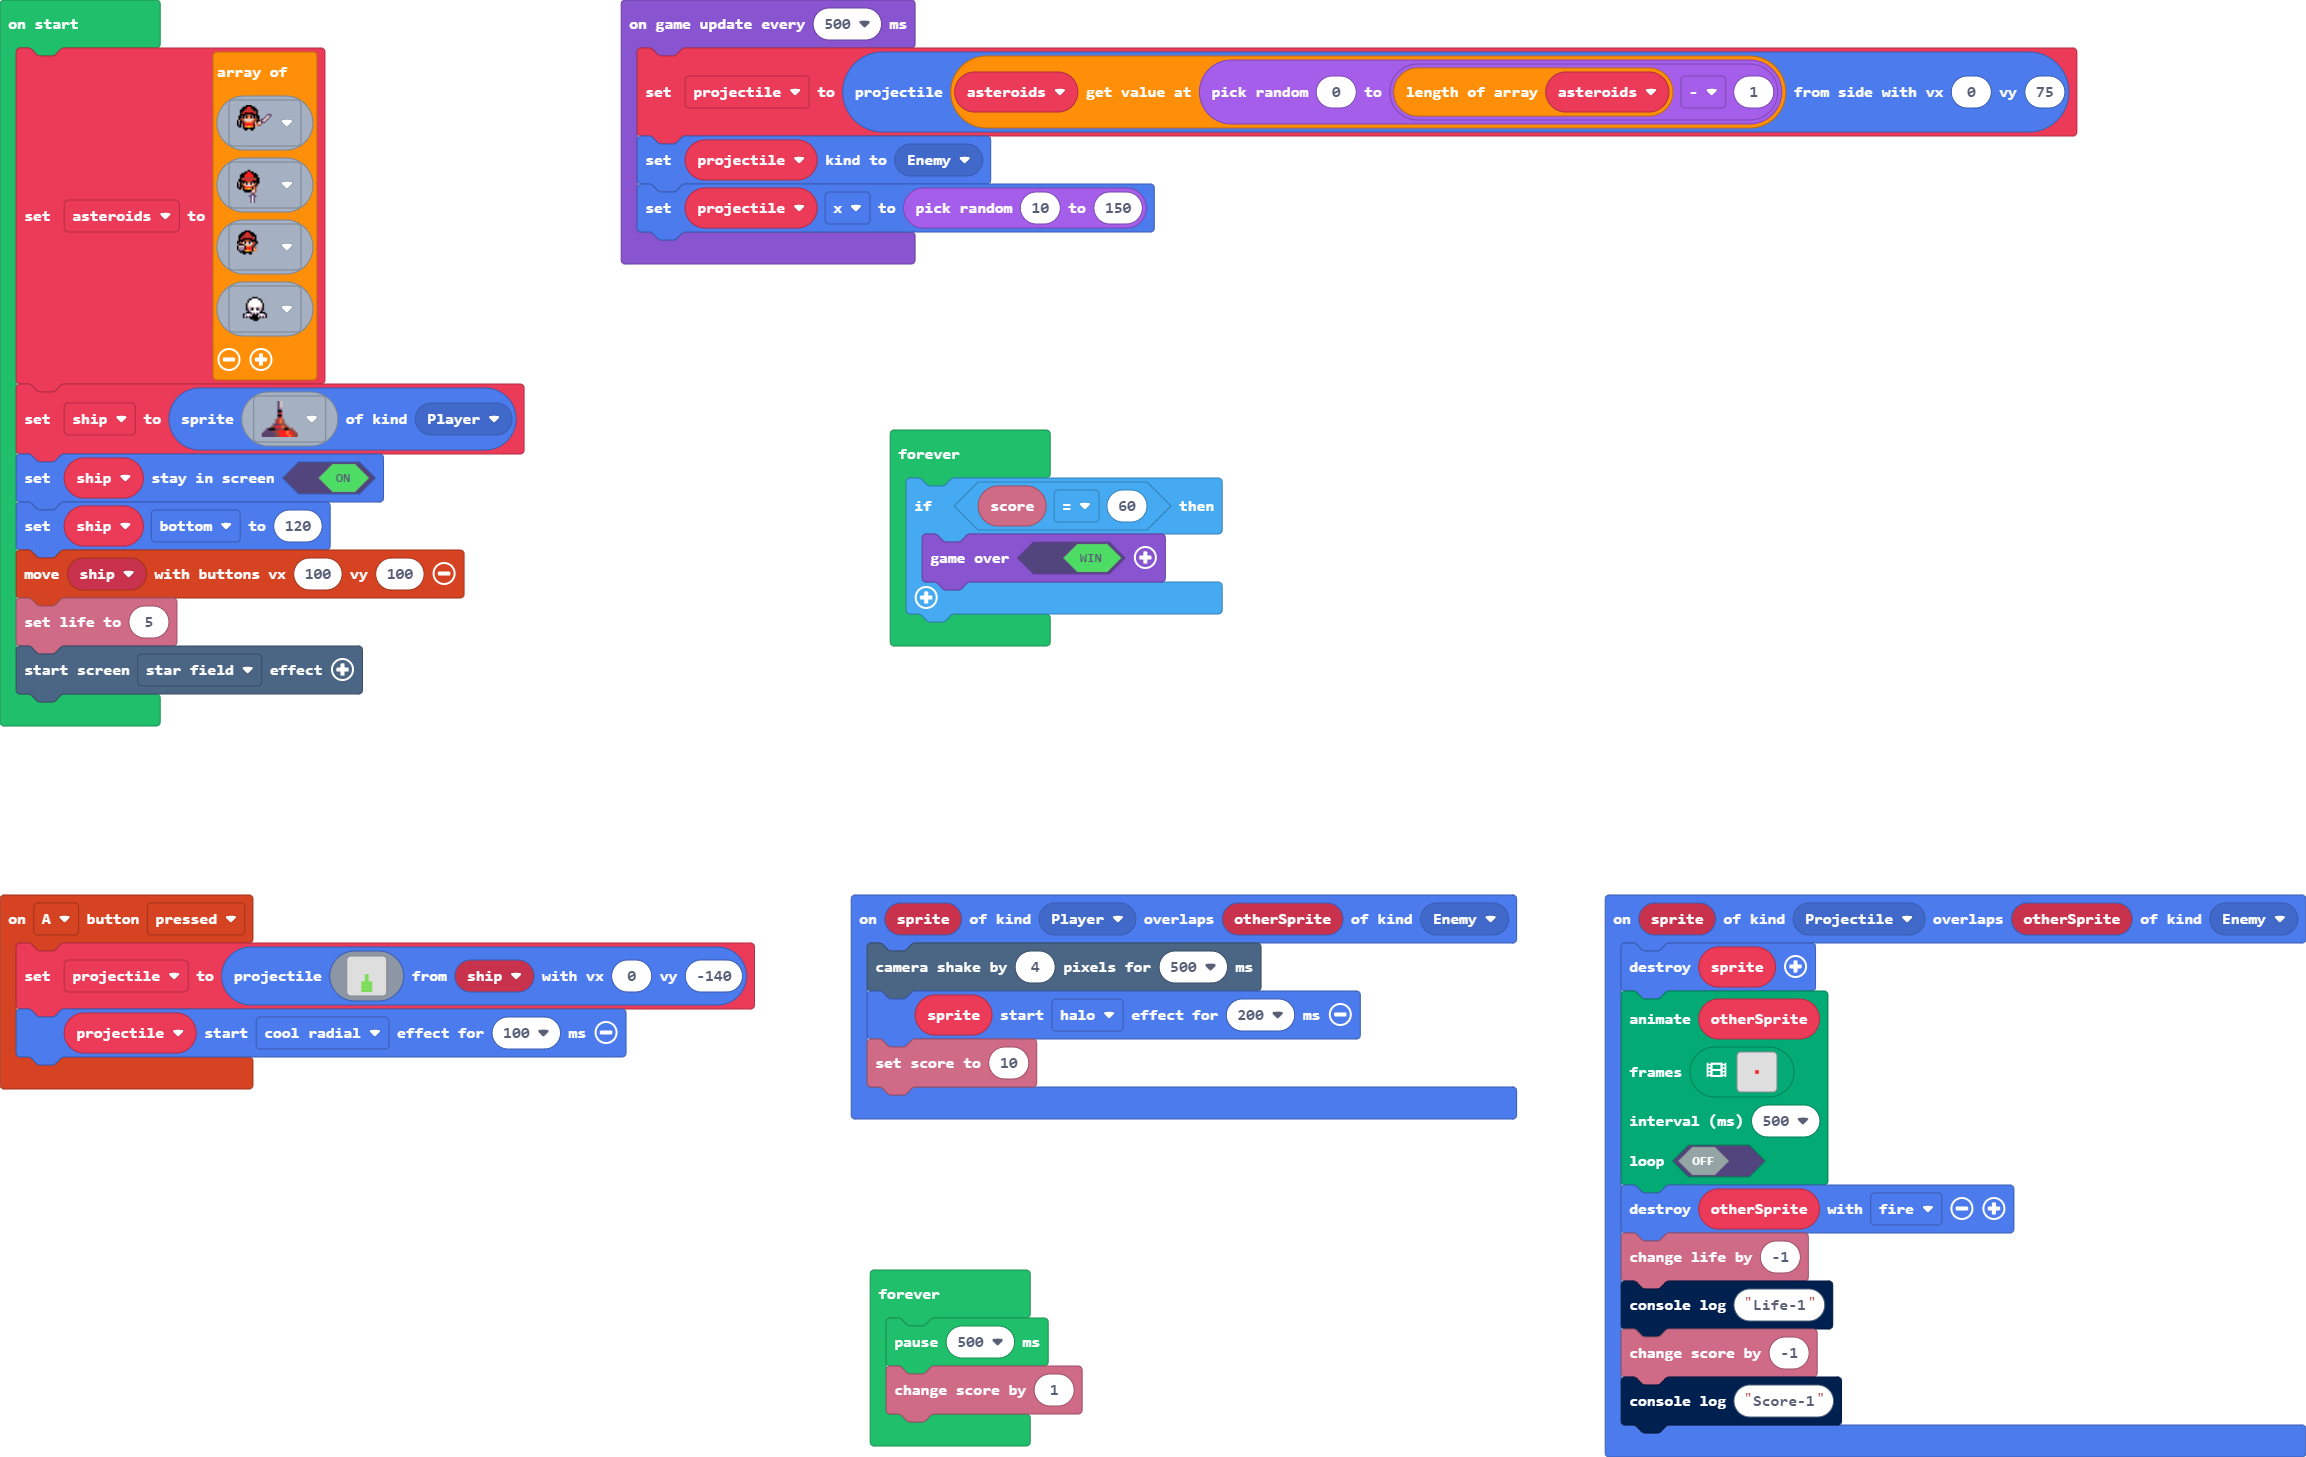
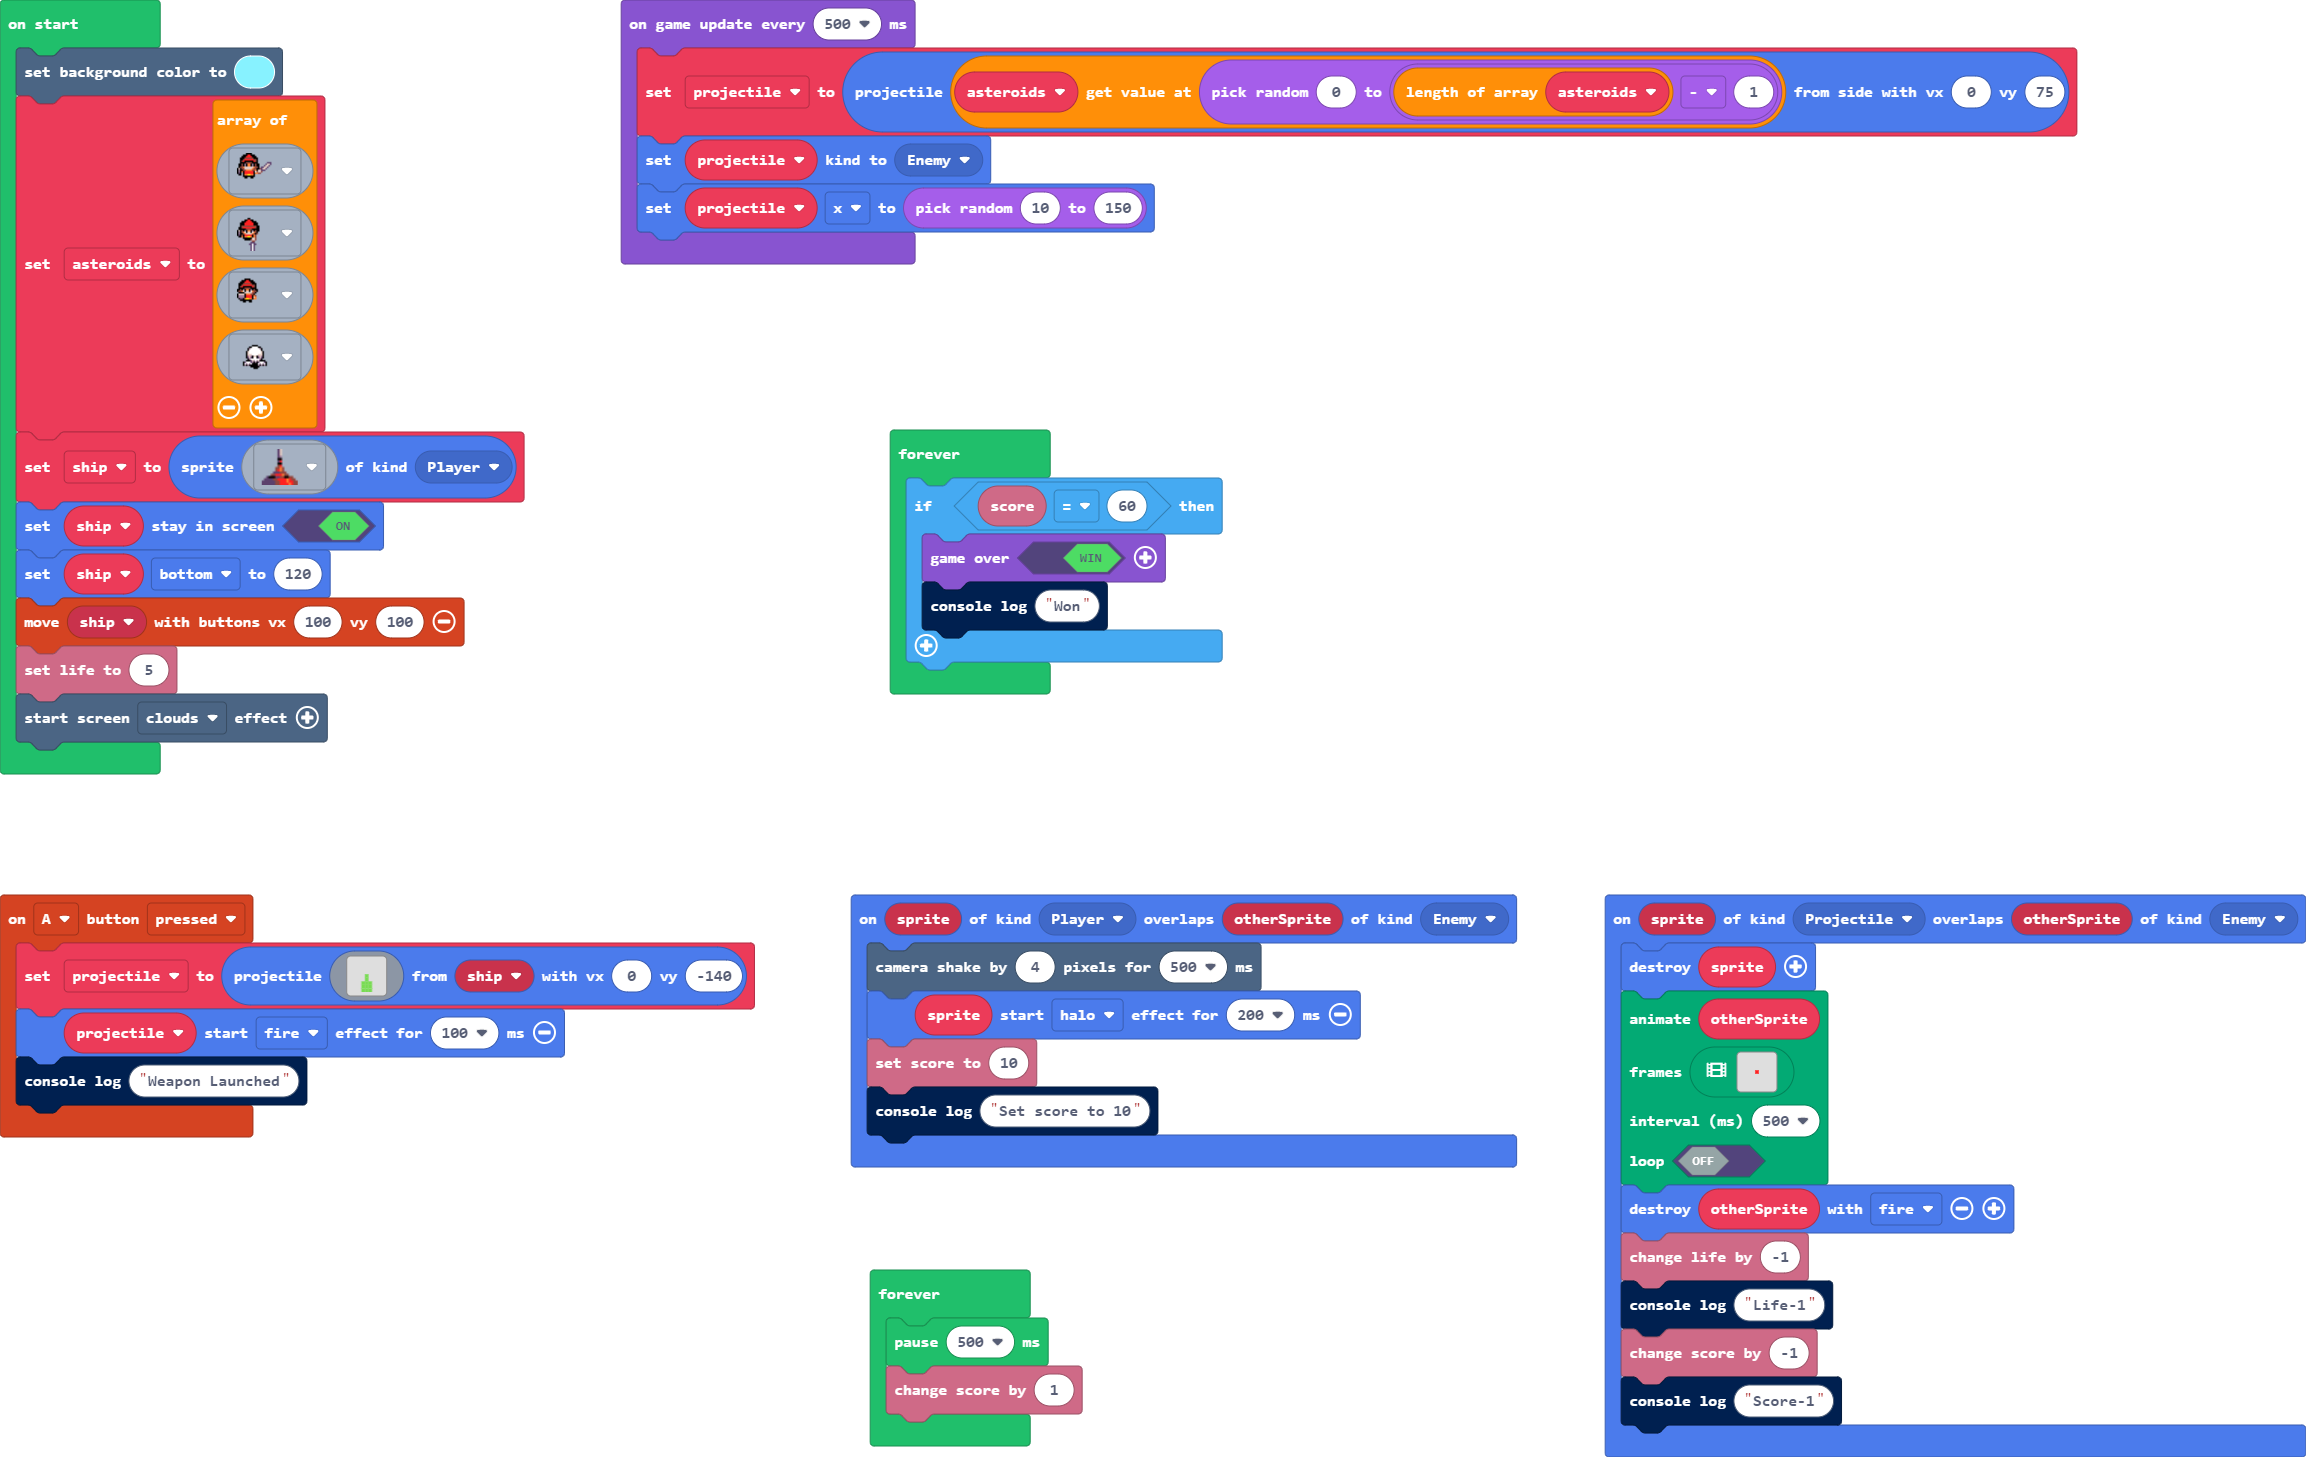
Update pxt.json, main.blocks, main.ts, tilemap.g.jres, tilemap.g.ts

diff --git a/main.ts b/main.ts
@@ -1,6 +1,7 @@
 controller.A.onEvent(ControllerButtonEvent.Pressed, function () {
     projectile = sprites.createProjectileFromSprite(assets.image`Bullet`, ship, 0, -140)
-    projectile.startEffect(effects.coolRadial, 100)
+    projectile.startEffect(effects.fire, 100)
+    console.log("Weapon Launched")
 })
 sprites.onOverlap(SpriteKind.Projectile, SpriteKind.Enemy, function (sprite, otherSprite) {
     sprite.destroy()
@@ -90,9 +91,11 @@ sprites.onOverlap(SpriteKind.Player, SpriteKind.Enemy, function (sprite, otherSp
     scene.cameraShake(4, 500)
     sprite.startEffect(effects.halo, 200)
     info.setScore(10)
+    console.log("Set score to 10")
 })
 let projectile: Sprite = null
 let ship: Sprite = null
+scene.setBackgroundColor(9)
 let asteroids = [
 sprites.castle.heroFrontAttack4,
 sprites.castle.heroFrontAttack3,
@@ -104,10 +107,11 @@ ship.setStayInScreen(true)
 ship.bottom = 120
 controller.moveSprite(ship, 100, 100)
 info.setLife(5)
-effects.starField.startScreenEffect()
+effects.clouds.startScreenEffect()
 forever(function () {
     if (info.score() == 60) {
         game.over(true)
+        console.log("Won")
     }
 })
 forever(function () {

diff --git a/tilemap.g.ts b/tilemap.g.ts
@@ -1,0 +1,14 @@
+// Auto-generated code. Do not edit.
+namespace myTiles {
+    //% fixedInstance jres blockIdentity=images._tile
+    export const transparency16 = image.ofBuffer(hex``);
+
+    helpers._registerFactory("tile", function(name: string) {
+        switch(helpers.stringTrim(name)) {
+            case "transparency16":return transparency16;
+        }
+        return null;
+    })
+
+}
+// Auto-generated code. Do not edit.
